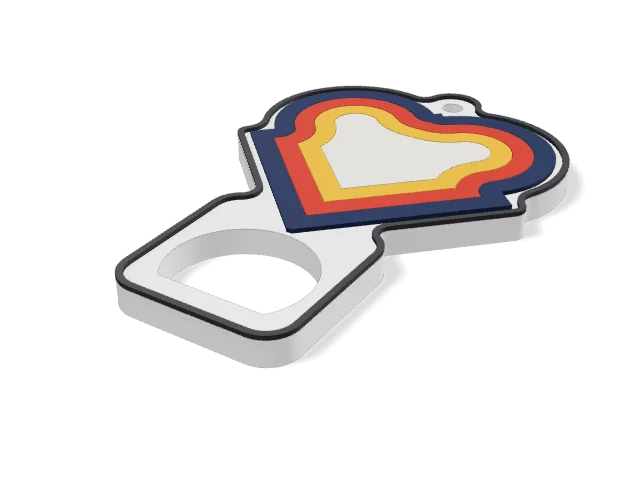
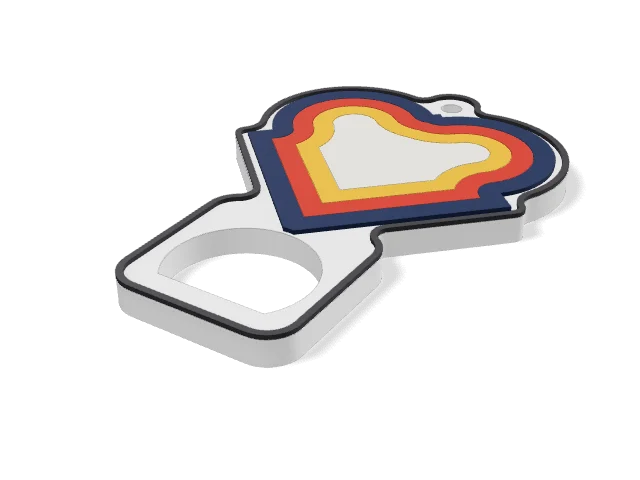
feat: abridor por imagem encaixa sozinho no desenho sem cobrir a arte; legenda da prévia com contorno no tema escuro (#208)
Com "Encaixar o abridor no desenho (automático)" (padrão) a aba entra na imagem o máximo possível até a abertura tocar o relevo; o manual continua. Parede entre a base e a abertura de 3 mm e folga do relevo de 0,6 mm. As bolinhas da legenda da prévia ganham contorno que segue o tema, para valer em todas as ferramentas.

diff --git a/src/geometry/models/openerImage.ts b/src/geometry/models/openerImage.ts
@@ -14,7 +14,9 @@ export type OpenerImageParams = {
   relief: number;
   openerSide: OpenerSide;
   ringSide: OpenerSide;
-  /** Quanto o abridor entra no desenho (mm): 0 deixa o desenho inteiro e a aba toda para fora; mais deixa a peça mais curta, cortando a ponta do desenho. */
+  /** Encaixa o abridor no desenho o máximo possível sem cobrir a arte (a peça sai mais curta). */
+  fit: boolean;
+  /** Com `fit` desligado: quanto o abridor entra no desenho (mm): 0 deixa o desenho inteiro e a aba toda para fora; mais deixa a peça mais curta, cortando a ponta do desenho. */
   overlap: number;
   /** Fio levantado em volta da peça, na cor da borda. */
   rim: boolean;
@@ -31,6 +33,7 @@ export const DEFAULT_OPENER_IMAGE: OpenerImageParams = {
   relief: 0.8,
   openerSide: "bottom",
   ringSide: "top",
+  fit: true,
   overlap: 0,
   rim: true,
   baseColor: "#ffffff",
@@ -46,7 +49,7 @@ const OPPOSITE: Record<OpenerSide, OpenerSide> = { bottom: "top", top: "bottom",
 const JOIN = 4; // quanto da aba entra na base (mm)
 const JOIN_AREA = 120; // área mínima (mm²) da aba sobre a base: sem isso a aba ficaria presa por uma ponta fina
 const MAX_SLIDE = 30; // até onde a aba entra na imagem para achar chão firme (pontas de coração, orelhas)
-const WALL_IN = 4; // material entre a base e a abertura
+const WALL_IN = 3; // material entre a base e a abertura
 const WALL_SIDE = 4;
 const WALL_OUT = 6; // o "dente": material do outro lado da abertura, que faz a força
 const CAP_R = 13; // a tampinha tem ~32 mm; a abertura pega a borda dela
@@ -62,7 +65,7 @@ const RING_JOIN = 2.5;
 const RING_JOIN_AREA = 25; // mm² do disco da argola sobre a base
 const CLOSE = 2.5; // raio dos cantos de dentro da silhueta
 const RIM_W = 1.2;
-const ART_GAP = 1; // folga entre o relevo e a abertura
+const ART_GAP = 0.6; // folga entre o relevo e a abertura
 const MIN_WALL = 3; // abaixo disso a parede em volta da abertura é fraca
 const WALLS = [6, 5, 4, 3, 2, 1.5, 1];
 const SLIVER = 0.5; // mm²
@@ -137,7 +140,15 @@ export function buildOpenerImage(ctx: ModelCtx, p: OpenerImageParams): ModelOutp
     const put = (cs: CS, pos: [number, number]) => k(k(cs.rotate(angleOf(u))).translate(pos));
     const slide = slideIn(k, (d) => put(tabLocal, at(d)), body, JOIN_AREA);
     const [ox, oy] = offsetOf(ctx, "opener");
-    const base0 = at(slide + p.overlap);
+    let depth = slide + p.overlap;
+    if (p.fit) {
+      // o mais fundo que a aba vai sem o relevo (abertura e folga, ou a rampa) tocar o desenho
+      for (let d = slide; d <= slide + MAX_SLIDE; d++) {
+        if (k(put(keepOut, at(d)).intersect(placed)).area() >= SLIVER) break;
+        depth = d;
+      }
+    }
+    const base0 = at(depth);
     const pos: [number, number] = [base0[0] + ox, base0[1] + oy];
     const tab = put(tabLocal, pos);
     const hole = put(holeLocal, pos);

diff --git a/src/qa/cases.ts b/src/qa/cases.ts
@@ -63,7 +63,7 @@ export async function modelCtx(M: ManifoldToplevel, p: Params, def: ModelDef): P
 }
 
 /** Variações extras por modelo (além de padrão, mínimo e máximo): opções que mudam a peça e precisam fatiar também. */
-const QA_EXTRA: Record<string, Record<string, Params>> = { starMap: { "estrelas vazadas": { hollow: true, density: "few" } }, musicCard: { QR: { code: "qr", codeSize: 44 } }, wallLetters: { "FESTA 600 mm (muitas partes)": { height: 600 } }, kitBicho: { saurópode: { head: "sauro", tail: "thick" }, "T-rex": { head: "trex", tail: "thick" } }, openerImage: { lata: { kind: "can" }, "abridor à direita, argola à esquerda": { openerSide: "right", ringSide: "left" }, "abridor dentro do desenho": { overlap: 15 }, "sem borda levantada": { rim: false } }, kitCard: { veículo: { mode: "vehicle" }, "vários cartões": { cardSize: "medium", ribs: 3, spines: 1, copies: 4 }, "uma placa lateral": { spines: 1 } } };
+const QA_EXTRA: Record<string, Record<string, Params>> = { starMap: { "estrelas vazadas": { hollow: true, density: "few" } }, musicCard: { QR: { code: "qr", codeSize: 44 } }, wallLetters: { "FESTA 600 mm (muitas partes)": { height: 600 } }, kitBicho: { saurópode: { head: "sauro", tail: "thick" }, "T-rex": { head: "trex", tail: "thick" } }, openerImage: { lata: { kind: "can" }, "abridor à direita, argola à esquerda": { openerSide: "right", ringSide: "left" }, "abridor fora do desenho": { fit: false }, "abridor dentro do desenho (manual)": { fit: false, overlap: 15 }, "sem borda levantada": { rim: false } }, kitCard: { veículo: { mode: "vehicle" }, "vários cartões": { cardSize: "medium", ribs: 3, spines: 1, copies: 4 }, "uma placa lateral": { spines: 1 } } };
 
 /** Padrão, todos os campos numéricos no mínimo e todos no máximo (mais as variações extras do modelo). */
 export function variants(def: ModelDef): [QaCase["variant"], Params][] {

diff --git a/src/tools/models/catalog/keychains.ts b/src/tools/models/catalog/keychains.ts
@@ -188,7 +188,8 @@ export const KEYCHAIN_MODELS: ModelDef[] = [
             icons: { bottom: ArrowDown, left: ArrowLeft, right: ArrowRight, top: ArrowUp },
             hint: "A parte reta da abertura (o dente) prende a tampinha e faz a força. Imprima em PETG, com 4 paredes: não precisa de moeda nem de anel de metal.",
           }),
-          num("overlap", "Abridor entra no desenho", 0, 25, { step: 1, hint: "0 deixa o desenho inteiro e o abridor todo para fora. Aumente para a peça ficar mais curta: o abridor corta a ponta do desenho." }),
+          bool("fit", "Encaixar o abridor no desenho (automático)"),
+          num("overlap", "Abridor entra no desenho (manual)", 0, 25, { step: 1, hint: "Só vale com o automático desligado. 0 deixa o abridor todo para fora; mais deixa a peça curta, mas o abridor corta a ponta do desenho." }),
           choice("ringSide", "Argola", [["top", "Em cima"], ["left", "Esquerda"], ["right", "Direita"], ["bottom", "Embaixo"]], {
             icons: { top: ArrowUp, left: ArrowLeft, right: ArrowRight, bottom: ArrowDown },
             hint: "Também dá para arrastar a argola e o abridor na prévia.",

diff --git a/src/styles/tools.css b/src/styles/tools.css
@@ -29,7 +29,7 @@
 .viewer .busy-chip { position: absolute; right: 12px; bottom: 12px; display: flex; align-items: center; gap: 8px; font-size: var(--text-sm); padding: 5px 10px; border-radius: var(--r-pill); background: var(--glass); box-shadow: var(--shadow-1); color: var(--muted); }
 .viewer .busy-chip .spinner { width: 14px; height: 14px; border-width: 2px; }
 .viewer .legend { left: 12px; bottom: 12px; display: flex; gap: 12px; flex-wrap: wrap; }
-.viewer .legend i { display: inline-block; width: 10px; height: 10px; border-radius: 3px; margin-right: 5px; vertical-align: -1px; box-shadow: inset 0 0 0 0.5px rgb(0 0 0 / 0.2); }
+.viewer .legend i { display: inline-block; width: 10px; height: 10px; border-radius: 3px; margin-right: 5px; vertical-align: -1px; box-shadow: 0 0 0 1px color-mix(in srgb, var(--text) 40%, transparent); } /* contorno que aparece em cores escuras no tema escuro (e em claras no claro) */
 .viewer .hud { right: 12px; top: 12px; color: var(--muted); font-variant-numeric: tabular-nums; font-weight: 500; }
 .viewer .hud.hud-cm { top: 48px; color: var(--text); }
 

diff --git a/src/geometry/models/openerImage.test.ts b/src/geometry/models/openerImage.test.ts
@@ -80,6 +80,16 @@ describe("abridor pela imagem: base no contorno, abridor e argola nos 4 lados", 
     s.delete();
   });
 
+  test("encaixe automático: peça mais curta que com o abridor todo para fora, e o relevo não é cortado", () => {
+    const flat = () => ctx(M.CrossSection.square([100, 60], true)); // fundo reto: o abridor encosta nele
+    const fora = build({ fit: false }, flat());
+    const auto = build({}, flat());
+    const h = (o: ReturnType<typeof build>) => { const b = meshBounds([part(o, "Base")!.mesh])!; return b.max[1] - b.min[1]; };
+    expect(h(auto)).toBeLessThan(h(fora) - 3);
+    const vol = (o: ReturnType<typeof build>) => { const s = solid(part(o, "Relevo")!.mesh); const v = s.volume(); s.delete(); return v; };
+    expect(vol(auto)).toBeGreaterThan(vol(fora) * 0.99);
+  });
+
   test("argola e abridor no mesmo lado: a argola vai para o lado oposto e avisa", () => {
     const out = build({ openerSide: "bottom", ringSide: "bottom" });
     expect(out.warnings?.join(" ")).toMatch(/lado oposto/);

diff --git a/docs/QA-modelos.md b/docs/QA-modelos.md
@@ -23,7 +23,7 @@ Peça maior que a mesa de 256 mm do A1 conta como **aviso** quando o app avisa n
 impressoras de mesa maior); sem o aviso do app, é **falha**.
 
 
-**Total:** 336 casos · 241 ok · 95 com aviso · 0 com falha · 0 n/a
+**Total:** 337 casos · 241 ok · 96 com aviso · 0 com falha · 0 n/a
 
 ## Forja
 
@@ -58,13 +58,14 @@ impressoras de mesa maior); sem o aviso do app, é **falha**.
 | Chaveiro abridor (opener) | máximo | ✅ ok | Bambu ✓ · Orca ✓ · Projeto Bambu ✓ | 22 | 17,7 | 1 | – | app: Peça que faz força: imprima com 4+ paredes e 40%+ de preenchimento; PETG aguenta mais que PLA. |
 | Chaveiro abridor (opener) | mínimo | ✅ ok | Bambu ✓ · Orca ✓ · Projeto Bambu ✓ | 36 | 10,5 | 1 | – | app: Peça que faz força: imprima com 4+ paredes e 40%+ de preenchimento; PETG aguenta mais que PLA. |
 | Chaveiro abridor (opener) | padrão | ✅ ok | Bambu ✓ · Orca ✓ · Projeto Bambu ✓ | 20 | 11,4 | 1 | – | app: Peça que faz força: imprima com 4+ paredes e 40%+ de preenchimento; PETG aguenta mais que PLA. |
-| Chaveiro abridor com sua arte (openerImage) | abridor à direita, argola à esquerda | ⚠ aviso | Bambu ✓ · Orca ✓ · Projeto Bambu ✓ | – | – | – | – | 6 cores: mais que os 4 do AMS lite; Bambu: torre de purga passa da mesa na posição padrão do CLI (na tela, arraste a torre ou use Arrumar); Orca: torre de purga passa da mesa na posição padrão do CLI (na tela, arraste a torre ou use Arrumar); Projeto Bambu: torre de purga passa da mesa na posição padrão do CLI (na tela, arraste a torre ou use Arrumar); app: O dente (a parte reta da abertura) é quem faz a força: imprima em PETG com 4 paredes e 40% de preenchimento. Não precisa de moeda nem de anel de metal. |
-| Chaveiro abridor com sua arte (openerImage) | abridor dentro do desenho | ⚠ aviso | Bambu ✓ · Orca ✓ · Projeto Bambu ✓ | – | – | – | – | 6 cores: mais que os 4 do AMS lite; Bambu: torre de purga passa da mesa na posição padrão do CLI (na tela, arraste a torre ou use Arrumar); Orca: torre de purga passa da mesa na posição padrão do CLI (na tela, arraste a torre ou use Arrumar); Projeto Bambu: torre de purga passa da mesa na posição padrão do CLI (na tela, arraste a torre ou use Arrumar); app: O dente (a parte reta da abertura) é quem faz a força: imprima em PETG com 4 paredes e 40% de preenchimento. Não precisa de moeda nem de anel de metal. |
-| Chaveiro abridor com sua arte (openerImage) | lata | ⚠ aviso | Bambu ✓ · Orca ✓ · Projeto Bambu ✓ | – | – | – | – | 6 cores: mais que os 4 do AMS lite; Bambu: torre de purga passa da mesa na posição padrão do CLI (na tela, arraste a torre ou use Arrumar); Orca: torre de purga passa da mesa na posição padrão do CLI (na tela, arraste a torre ou use Arrumar); Projeto Bambu: torre de purga passa da mesa na posição padrão do CLI (na tela, arraste a torre ou use Arrumar); app: O dente (a parte reta da abertura) é quem faz a força: imprima em PETG com 4 paredes e 40% de preenchimento. Não precisa de moeda nem de anel de metal. |
-| Chaveiro abridor com sua arte (openerImage) | máximo | ⚠ aviso | Bambu ✓ · Orca ✓ · Projeto Bambu ✓ | – | – | – | – | 6 cores: mais que os 4 do AMS lite; Bambu: torre de purga passa da mesa na posição padrão do CLI (na tela, arraste a torre ou use Arrumar); Orca: torre de purga passa da mesa na posição padrão do CLI (na tela, arraste a torre ou use Arrumar); Projeto Bambu: torre de purga passa da mesa na posição padrão do CLI (na tela, arraste a torre ou use Arrumar); app: O dente (a parte reta da abertura) é quem faz a força: imprima em PETG com 4 paredes e 40% de preenchimento. Não precisa de moeda nem de anel de metal. |
-| Chaveiro abridor com sua arte (openerImage) | mínimo | ⚠ aviso | Bambu ✓ · Orca ✓ · Projeto Bambu ✓ | – | – | – | – | 6 cores: mais que os 4 do AMS lite; Bambu: torre de purga passa da mesa na posição padrão do CLI (na tela, arraste a torre ou use Arrumar); Orca: torre de purga passa da mesa na posição padrão do CLI (na tela, arraste a torre ou use Arrumar); Projeto Bambu: torre de purga passa da mesa na posição padrão do CLI (na tela, arraste a torre ou use Arrumar); app: O abridor ou a argola ficou separado da peça: aproxime-o da imagem.; app: Abridor de garrafa faz força: use espessura de 5 mm ou mais.; app: O dente (a parte reta da abertura) é quem faz a força: imprima em PETG com 4 paredes e 40% de preenchimento. Não precisa de moeda nem de anel de metal. |
-| Chaveiro abridor com sua arte (openerImage) | padrão | ⚠ aviso | Bambu ✓ · Orca ✓ · Projeto Bambu ✓ | – | – | – | – | 6 cores: mais que os 4 do AMS lite; Bambu: torre de purga passa da mesa na posição padrão do CLI (na tela, arraste a torre ou use Arrumar); Orca: torre de purga passa da mesa na posição padrão do CLI (na tela, arraste a torre ou use Arrumar); Projeto Bambu: torre de purga passa da mesa na posição padrão do CLI (na tela, arraste a torre ou use Arrumar); app: O dente (a parte reta da abertura) é quem faz a força: imprima em PETG com 4 paredes e 40% de preenchimento. Não precisa de moeda nem de anel de metal. |
-| Chaveiro abridor com sua arte (openerImage) | sem borda levantada | ⚠ aviso | Bambu ✓ · Orca ✓ · Projeto Bambu ✓ | – | – | – | – | 5 cores: mais que os 4 do AMS lite; Bambu: torre de purga passa da mesa na posição padrão do CLI (na tela, arraste a torre ou use Arrumar); Orca: torre de purga passa da mesa na posição padrão do CLI (na tela, arraste a torre ou use Arrumar); Projeto Bambu: torre de purga passa da mesa na posição padrão do CLI (na tela, arraste a torre ou use Arrumar); app: O dente (a parte reta da abertura) é quem faz a força: imprima em PETG com 4 paredes e 40% de preenchimento. Não precisa de moeda nem de anel de metal. |
+| Chaveiro abridor com sua arte (openerImage) | abridor à direita, argola à esquerda | ⚠ aviso | Bambu ✓ · Orca ✓ · Projeto Bambu ✓ | – | – | – | – | 6 cores: mais que os 4 do AMS lite; Bambu: torre de purga passa da mesa na posição padrão do CLI (na tela, arraste a torre ou use Arrumar); Orca: torre de purga passa da mesa na posição padrão do CLI (na tela, arraste a torre ou use Arrumar); Projeto Bambu: torre de purga passa da mesa na posição padrão do CLI (na tela, arraste a torre ou use Arrumar) |
+| Chaveiro abridor com sua arte (openerImage) | abridor dentro do desenho (manual) | ⚠ aviso | Bambu ✓ · Orca ✓ · Projeto Bambu ✓ | – | – | – | – | 6 cores: mais que os 4 do AMS lite; Bambu: torre de purga passa da mesa na posição padrão do CLI (na tela, arraste a torre ou use Arrumar); Orca: torre de purga passa da mesa na posição padrão do CLI (na tela, arraste a torre ou use Arrumar); Projeto Bambu: torre de purga passa da mesa na posição padrão do CLI (na tela, arraste a torre ou use Arrumar) |
+| Chaveiro abridor com sua arte (openerImage) | abridor fora do desenho | ⚠ aviso | Bambu ✓ · Orca ✓ · Projeto Bambu ✓ | – | – | – | – | 6 cores: mais que os 4 do AMS lite; Bambu: torre de purga passa da mesa na posição padrão do CLI (na tela, arraste a torre ou use Arrumar); Orca: torre de purga passa da mesa na posição padrão do CLI (na tela, arraste a torre ou use Arrumar); Projeto Bambu: torre de purga passa da mesa na posição padrão do CLI (na tela, arraste a torre ou use Arrumar) |
+| Chaveiro abridor com sua arte (openerImage) | lata | ⚠ aviso | Bambu ✓ · Orca ✓ · Projeto Bambu ✓ | – | – | – | – | 6 cores: mais que os 4 do AMS lite; Bambu: torre de purga passa da mesa na posição padrão do CLI (na tela, arraste a torre ou use Arrumar); Orca: torre de purga passa da mesa na posição padrão do CLI (na tela, arraste a torre ou use Arrumar); Projeto Bambu: torre de purga passa da mesa na posição padrão do CLI (na tela, arraste a torre ou use Arrumar) |
+| Chaveiro abridor com sua arte (openerImage) | máximo | ⚠ aviso | Bambu ✓ · Orca ✓ · Projeto Bambu ✓ | – | – | – | – | 6 cores: mais que os 4 do AMS lite; Bambu: torre de purga passa da mesa na posição padrão do CLI (na tela, arraste a torre ou use Arrumar); Orca: torre de purga passa da mesa na posição padrão do CLI (na tela, arraste a torre ou use Arrumar); Projeto Bambu: torre de purga passa da mesa na posição padrão do CLI (na tela, arraste a torre ou use Arrumar) |
+| Chaveiro abridor com sua arte (openerImage) | mínimo | ⚠ aviso | Bambu ✓ · Orca ✓ · Projeto Bambu ✓ | – | – | – | – | 6 cores: mais que os 4 do AMS lite; Bambu: torre de purga passa da mesa na posição padrão do CLI (na tela, arraste a torre ou use Arrumar); Orca: torre de purga passa da mesa na posição padrão do CLI (na tela, arraste a torre ou use Arrumar); Projeto Bambu: torre de purga passa da mesa na posição padrão do CLI (na tela, arraste a torre ou use Arrumar); app: Abridor de garrafa faz força: use espessura de 5 mm ou mais. |
+| Chaveiro abridor com sua arte (openerImage) | padrão | ⚠ aviso | Bambu ✓ · Orca ✓ · Projeto Bambu ✓ | – | – | – | – | 6 cores: mais que os 4 do AMS lite; Bambu: torre de purga passa da mesa na posição padrão do CLI (na tela, arraste a torre ou use Arrumar); Orca: torre de purga passa da mesa na posição padrão do CLI (na tela, arraste a torre ou use Arrumar); Projeto Bambu: torre de purga passa da mesa na posição padrão do CLI (na tela, arraste a torre ou use Arrumar) |
+| Chaveiro abridor com sua arte (openerImage) | sem borda levantada | ⚠ aviso | Bambu ✓ · Orca ✓ · Projeto Bambu ✓ | – | – | – | – | 5 cores: mais que os 4 do AMS lite; Bambu: torre de purga passa da mesa na posição padrão do CLI (na tela, arraste a torre ou use Arrumar); Orca: torre de purga passa da mesa na posição padrão do CLI (na tela, arraste a torre ou use Arrumar); Projeto Bambu: torre de purga passa da mesa na posição padrão do CLI (na tela, arraste a torre ou use Arrumar) |
 | Topo de lápis (pencilTopper) | máximo | ✅ ok | Bambu ✓ · Orca ✓ · Projeto Bambu ✓ | 34 | 18,0 | 1 | – | app: Furo de 12 mm: lápis comum tem ~7,5 mm. Se ficar justo ou folgado, ajuste e imprima de novo. |
 | Topo de lápis (pencilTopper) | mínimo | ✅ ok | Bambu ✓ · Orca ✓ · Projeto Bambu ✓ | 10 | 4,0 | 1 | – | app: Furo de 5 mm: lápis comum tem ~7,5 mm. Se ficar justo ou folgado, ajuste e imprima de novo. |
 | Topo de lápis (pencilTopper) | padrão | ✅ ok | Bambu ✓ · Orca ✓ · Projeto Bambu ✓ | 16 | 6,9 | 1 | – | app: Furo de 7,8 mm: lápis comum tem ~7,5 mm. Se ficar justo ou folgado, ajuste e imprima de novo. |

diff --git a/CHANGELOG.md b/CHANGELOG.md
@@ -4,7 +4,8 @@ Cada versão aparece para a usuária na tela "O que há de novo" depois da atual
 Formato: `## <versão> — <data>` e itens `- …` em linguagem simples.
 
 ## Próxima versão (ainda não lançada)
-- **Chaveiro abridor com a sua imagem (#208)**: em Modelos prontos › Chaveiro › Abridor + arte, envie um PNG, JPG, SVG ou foto (ex.: um gato do Google) e o app tira o fundo, vetoriza e faz a base no contorno da imagem, com o desenho em relevo e uma borda levantada. As cores base e relevo saem sugeridas pela imagem (você troca). O abridor (garrafa ou lata) entra embaixo, à esquerda, à direita ou em cima, e a argola no lado que quiser, por botões com seta ou arrastando na prévia; a aba entra na imagem só o necessário para ficar bem presa. Tamanho em cm, com a medida da peça pronta sobre a prévia, e aviso se a parede em volta da abertura ficar fraca. A força fica no dente da abertura: PETG com 4 paredes, sem moeda nem anel de metal.
+- **Chaveiro abridor com a sua imagem (#208)**: em Modelos prontos › Chaveiro › Abridor + arte, envie um PNG, JPG, SVG ou foto (ex.: um gato do Google) e o app tira o fundo, vetoriza e faz a base no contorno da imagem, com o desenho em relevo e uma borda levantada. As cores base e relevo saem sugeridas pela imagem (você troca). O abridor (garrafa ou lata) entra embaixo, à esquerda, à direita ou em cima, e a argola no lado que quiser, por botões com seta ou arrastando na prévia; a aba entra na imagem o máximo possível sem cobrir o desenho (automático; dá para fazer manual). Tamanho em cm, com a medida da peça pronta sobre a prévia, e aviso se a parede em volta da abertura ficar fraca. A força fica no dente da abertura: PETG com 4 paredes, sem moeda nem anel de metal.
+- **Legenda da prévia no tema escuro**: as bolinhas de cor escura (preto) da legenda ganham um contorno claro e não somem mais no fundo, em todas as ferramentas.
 
 ## 0.12.5 — 2026-10-15
 - **Corte parcial**: nova ferramenta que corta só um pedaço de um STL ou 3MF, sem o plano atravessar a peça inteira como no fatiador. Você escolhe a direção, a posição e a inclinação do plano e limita o corte a uma região: caixa, cilindro (cabeça, braço, galho) ou esfera, que você arrasta direto na vista 3D pelas alças ou ajusta nos controles. Ao escolher cilindro ou esfera, ou ao clicar numa parte, a região já envolve a parte inteira, e o app avisa se ela corta a peça pelo lado. Dá para fazer vários cortes no mesmo arquivo, escolher o filamento de cada pedaço (cada objeto abre no extrusor certo no fatiador) e ver o peso e o tempo de cada peça. Pino ou furo na face cortada com tamanho e posição automáticos, sempre escondido dentro das duas peças. Botões de vista (frente, lado, cima, 3/4), cada peça na cor que vai para o arquivo e afastável na prévia, plano translúcido e região tracejada, uma análise que sugere onde cortar para imprimir com menos suporte (braços e abas no ar), saídas na hora quando o pino não cabe (pino fixo menor ou colar sem pino), reparo automático de furos na malha e peças grandes (centenas de milhares de triângulos) calculadas sem travar a tela, e o 3MF sai com resto, pedaços (deitados na face cortada) e pinos, conferidos como sólidos fechados que somam o volume original
